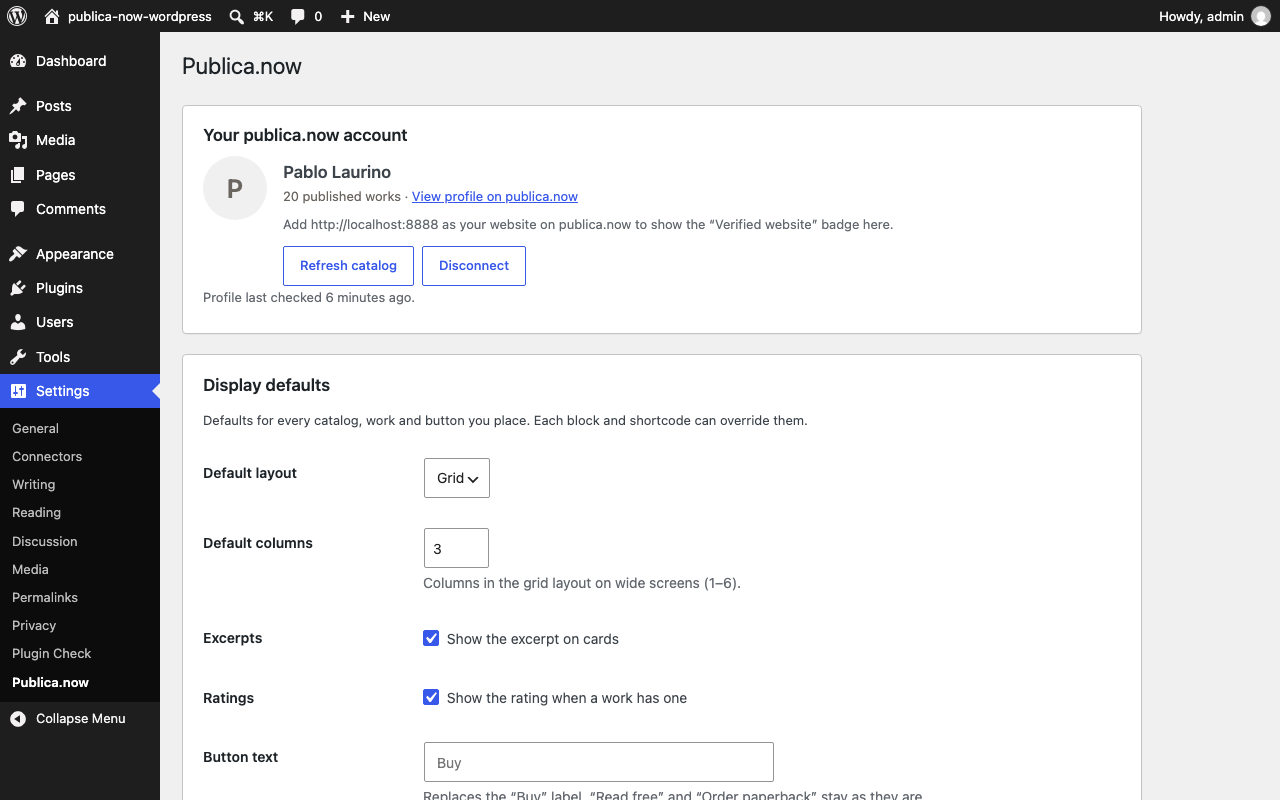
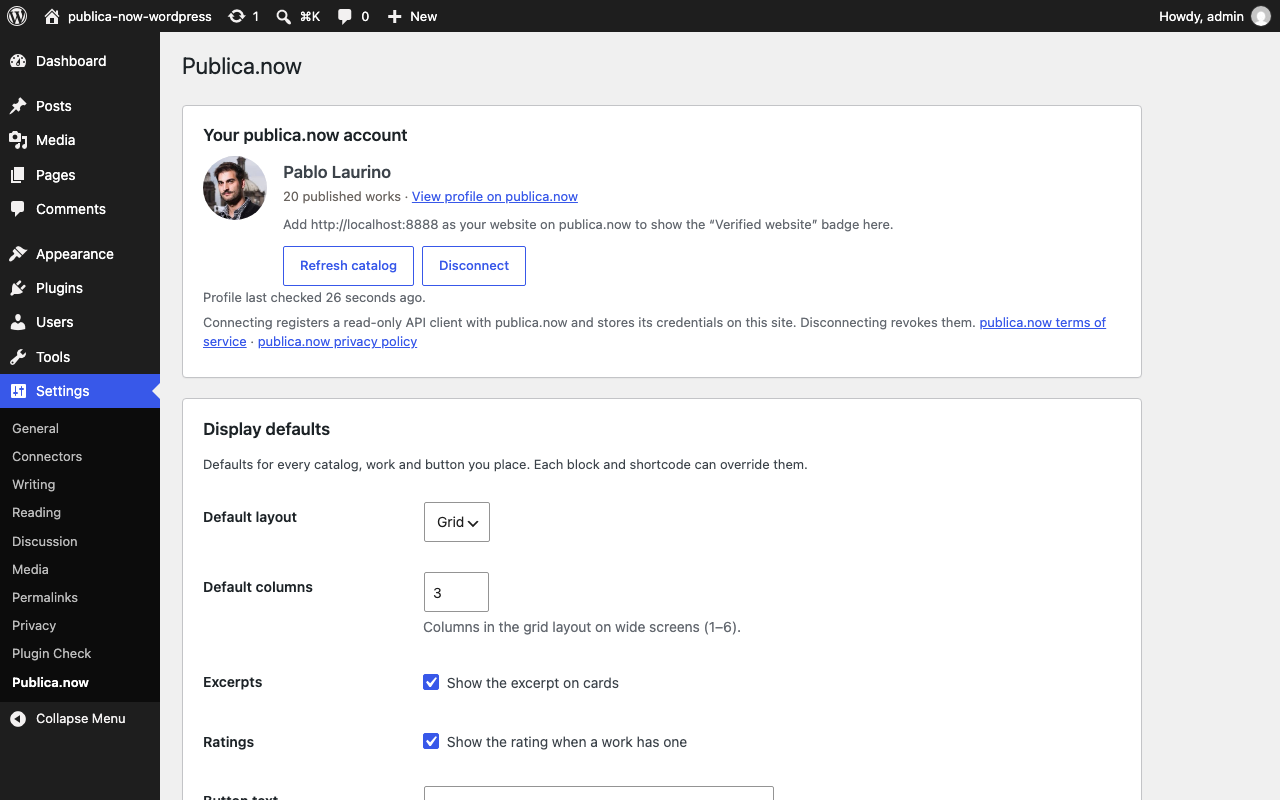
Name the WordPress.org contributor (#1)
* Name the WordPress.org contributor now that the account exists

readme.txt carried no Contributors line because the wordpress.org
account did not exist yet and guessing a username shows no contributor
at all on the listing. The account is now created, so the line names it.

* docs: recapture screenshots 2 and 5 from real production data

PR #395 (publicanow) shipped the storefront fields the public API was
missing, so two listing screenshots that could not be captured honestly
before now can be.

screenshot-2 (connected settings card): avatar_url is now a real URL, so
the card shows the creator's own profile photo instead of the
initial-letter placeholder. The "Verified website" badge is still absent
because the creator's `website` is NULL in production; the card shows the
"add your website" hint instead, and the caption describes that hint
rather than promising the badge.

screenshot-5 (single work card): the previous frame was SIMULATED via the
QA shim dist/qa/mu-layer1.php, which injected discount, print and rating
through the publicanow_work filter, depicting a sale badge, struck-through
list price, end date and a 4.6 rating that no real site could render. It
is replaced with a capture from live data with no shim installed:
"Why Do So Many Incompetent Men Become Leaders?" — cover, EBOOK badge,
author, excerpt, $13.37 with Paperback $9.09, and a real Buy next to a
real Order paperback. Production returns discount: null and rating: null
[…]

diff --git a/docs/SUBMISSION.md b/docs/SUBMISSION.md
@@ -70,25 +70,29 @@ Tick every line. Each one is a known first-pass rejection or an upload-blocking 
       masonry), lowercase filenames, PNG, each under 10 MB. All six exist at a uniform
       1280×800, verified 2026-08-28:
       1. Settings → Publica.now before connecting (paste the profile URL)
-      2. Connected: name, works count, profile link, Refresh / Disconnect. **No avatar and
-         no "Verified website" badge appear** — both need Layer-1 fields (`avatar_url`,
-         `website`) that the production API does not return yet, so the card shows the
-         initial-letter placeholder and the "add your website" hint. The `readme.txt`
-         caption is worded to match; do not re-word it to promise either until PR #395
-         is merged **and deployed**, then recapture.
+      2. Connected: real profile photo, name, works count, profile link, Refresh /
+         Disconnect. Recaptured 2026-08-28 after PR #395 shipped `avatar_url`, so the
+         avatar is now the creator's own image rather than the initial-letter
+         placeholder. **The "Verified website" badge is still absent** — the creator's
+         `website` is NULL in production, so the card shows the "add your website" hint
+         instead. The `readme.txt` caption describes that hint; do not re-word it to
+         promise the badge until `website` is populated and the shot is retaken.
       3. The Catalog block in the editor with its live preview and options
       4. The catalog on the front end: three-column grid with covers, prices, badges, Buy buttons
-      5. A single work with a sale price and the Order paperback button. ⚠ **This one is
-         SIMULATED.** It was captured with the QA shim `dist/qa/mu-layer1.php`, which
-         injects `discount`, `print` and `rating` through the public `publicanow_work`
-         filter. Production returns none of those today, so no real site can currently
-         render this card. It proves the rendering works; it does **not** depict live
-         behaviour. Recapture against production once PR #395 is merged and deployed, or
-         the listing shows users a feature they cannot get.
+      5. A single work card on a page, from **real production data** — recaptured
+         2026-08-28 against the live API with no QA shim installed. It shows the work
+         "Why Do So Many Incompetent Men Become Leaders?": cover, EBOOK badge, author,
+         excerpt, `$13.37` with `Paperback $9.09`, and **Buy** next to **Order
+         paperback**. Only 3 of the creator's 20 works carry `print` data; this is one of
+         them. No sale badge and no rating appear, because production returns
+         `discount: null` and `rating: null` for every work — do not stage either.
+         (The previous frame here was simulated with `dist/qa/mu-layer1.php`; that shim
+         must stay out of `wp-content/mu-plugins/` when recapturing.)
       6. The shortcode cheat sheet on the settings screen
-- [ ] **Screenshots 2 and 5 recaptured after Layer 1 (#395) is deployed** — see above.
-      Also recapture 1–4 and 6 on a site whose `home_url()` is not `localhost:8888`; the
-      current set shows the local dev host in the connected card and in link previews.
+- [ ] **Screenshots 1, 3, 4 and 6 recaptured on a site whose `home_url()` is not
+      `localhost:8888`** — the current set shows the local dev host in the connected card
+      and in link previews. (2 and 5 were recaptured 2026-08-28 after Layer 1 shipped,
+      but still on the local host.)
 - [ ] **The GitHub repository exists and `main` is pushed.** As of 2026-08-28 the local
       clone has **no git remote** and `publicala/publica-now-wordpress` does not exist, so
       the workflows in `.github/` have never run. Create the repo, push `main`, and only
